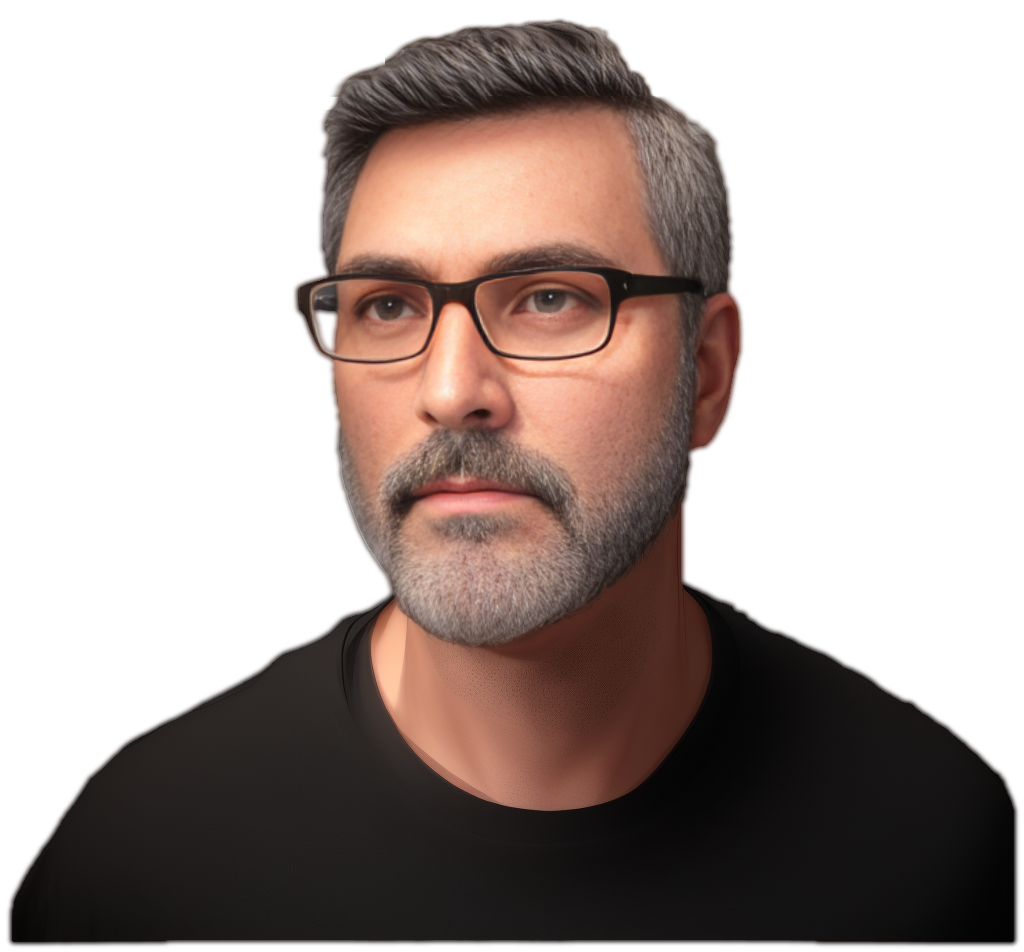
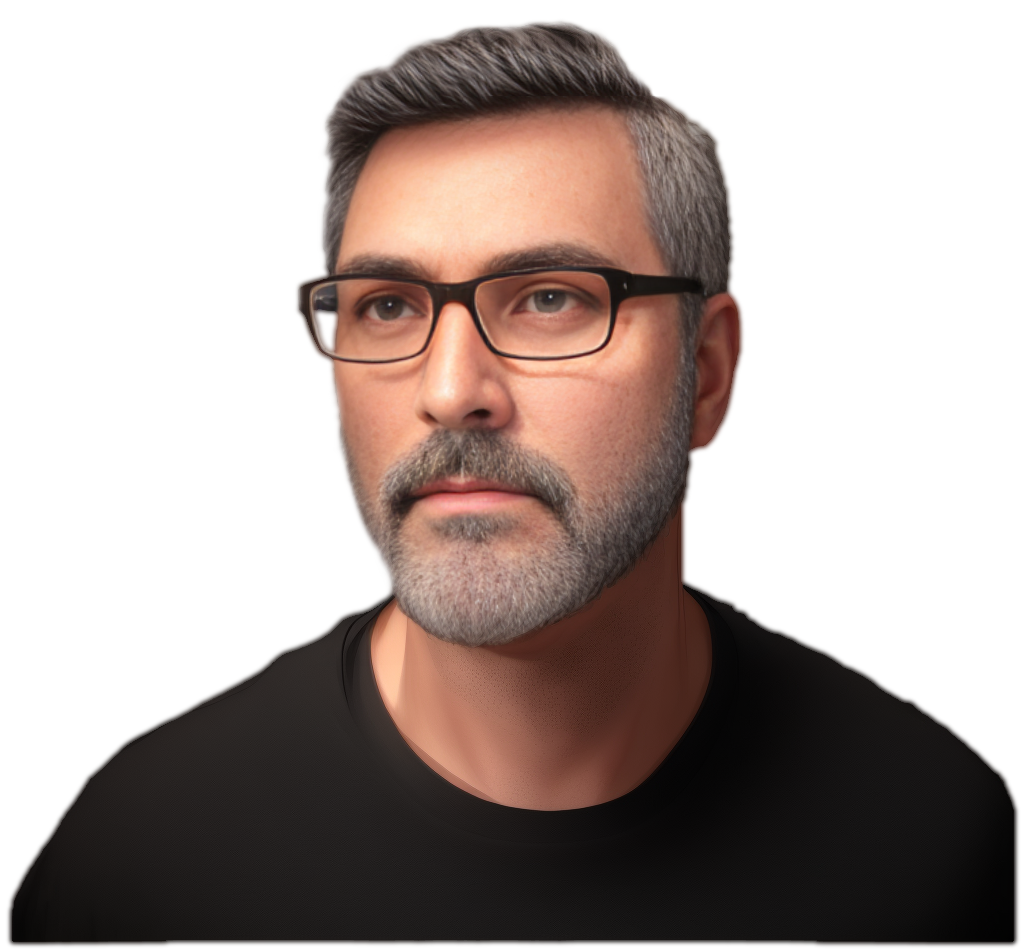
Edited Hero img; adjusted intro spacing

diff --git a/assets/styles/css/home.min.css b/assets/styles/css/home.min.css
@@ -1,1 +1,1 @@
-.hero{padding-top:3.5em !important;margin-bottom:0;padding-bottom:3.5em;width:100%;align-items:center;background:#24437b;background:radial-gradient(at bottom left, #24437b 0%, #0a1323 88%);color:#cdcdcd}@media(min-width: 768px){.hero{margin-bottom:-12em}}.hero>.content{flex-wrap:wrap-reverse}@container (min-width: 768px){.hero>.content{flex-wrap:nowrap}}.hero-copy{max-width:66ch;width:100%;display:flex;gap:.75em;justify-content:center;flex-direction:column;padding:0 4vw;align-items:center;text-align:center}@container (min-width: 768px){.hero-copy{margin-top:5em !important;margin-right:-12em;font-size:1.25em;align-items:flex-start;text-align:left;padding:0}}.hero-copy .page-title{line-height:1.25;text-transform:capitalize;font-weight:700;font-size:clamp(.95em,2vw,1.33em)}.hero-copy .Sub-title{font-size:2.85em;text-transform:capitalize;line-height:1em;margin-top:-0.25em}@container (min-width: 768px){.hero-copy .Sub-title{font-size:clamp(2.25em,4.8vw,3.2em)}}.hero-copy p{max-width:47ch;line-height:1.35}@container (min-width: 1080px){.hero-copy p{max-width:66ch}}.hero-copy .cta{width:-webkit-fit-content;width:-moz-fit-content;width:fit-content;padding:.382em .75em;margin:1em 0;background:var(--clr-header-cta);border:.125em solid var(--clr-header-cta);color:var(--clr-header-bg);font-weight:bold;border-radius:.25em;box-shadow:0px 2px 9px 0px rgba(89,89,89,.3607843137)}.hero-copy .cta:hover{background:rgba(0,0,0,0);color:var(--clr-header-cta);border:.125em solid var(--clr-header-cta)}.hero-copy .cta.animated{background:rgba(0,0,0,0)}.hero-copy .cta.animated:after{transform:scaleX(1);visibility:visible}.hero-copy .cta.animated span{transition:all 1s}.hero-copy .cta.animated:hover{color:var(--clr-header-cta);transition:all .12s}.hero-copy .cta.animated:hover:after{transform:scaleX(0)}.hero-image{margin:4vh auto;display:flex;justify-content:center;align-items:center;width:100vw;min-width:14em;max-width:38em;aspect-ratio:1/1;overflow:hidden}@container (min-width: 768px){.hero-image{margin-right:-6em !important;width:42vw}}.hero-image{position:relative;-webkit-mask-image:radial-gradient(circle, black 40%, rgba(0, 0, 0, 0) 50%);-webkit-mask-repeat:no-repeat;-webkit-mask-size:100% 180%;-webkit-mask-position:0 55%}.hero-image img.filter-effects{position:absolute;filter:blur(2em) brightness(0);z-index:-1}form{display:block;flex-direction:column;background:var(--clr-form-bg);color:var(--clr-form-ft)}@media(min-width: 768px){form{display:flex}}form label span{display:inline-block;transform:translate(0.5em, 0.75em);background:var(--clr-form-bg);padding:0 .5em}input,textarea,button{width:100%;padding:1em;margin-bottom:1em}input,textarea{border:1px solid var(--clr-input-br);background:var(--clr-input-bg);color:var(--clr-input-ft)}button:hover{cursor:pointer}.project-cards{display:flex;flex-direction:column;gap:1.618em}@media(min-width: 768px){.project-cards{display:grid;grid-template-columns:repeat(4, 1fr)}}.project-card{display:flex;flex-direction:column;background:var(--clr-card-bg);padding:1em;flex:1 1 100%;border:2px solid var(--clr-card-br);border-radius:.35em;box-shadow:0px 2px 9px 0px rgba(89,89,89,.3607843137);overflow:hidden}.project-card picture{border-radius:.25em;aspect-ratio:4/3}.project-card .copy{padding:.5em 0 0}.project-card .copy .fakeIcon{background:#000;color:#fff;display:inline-flex;align-items:center;justify-content:center;font-size:.6em;padding:0 .5em;border:.25em solid #000;border-radius:.5em;margin:.125em 0}@media(min-width: 768px){.project-card{flex:1 1 23.2%}}.article-cards{display:flex;flex-wrap:wrap;gap:1.618em;width:100%;font-size:.9em;line-height:1.2}.article-card{display:flex;flex-direction:column;background:var(--clr-card-bg);flex:1 1 100%;border:2px solid var(--clr-card-br);border-radius:.35em;box-shadow:0px 2px 9px 0px rgba(89,89,89,.3607843137);overflow:hidden}.article-card article{height:100%;position:relative}.article-card picture{aspect-ratio:6/4}.article-card .copy{padding:.75em}.article-card .copy .leanIn{padding-bottom:3em}.article-card .readMore{position:absolute;bottom:1em;left:1em;letter-spacing:.1em;font-size:.85em;padding:0 .5em;line-height:2em;font-weight:bold;height:2em;border:1px solid #5c626d;background-color:var(--clr-tag-bg);color:#5c626d;border-radius:.25em;text-decoration:none;margin:.5em .5em .5em 0}.article-card .readMore:hover{border:1px solid var(--clr-tag-br-hover, black);background-color:var(--clr-tag-bg-hover, black);color:var(--clr-tag-ft-hover, black)}@media(min-width: 768px){.article-card{flex:1 1 23.2%}}body{background:var(--clr-body-bg);color:var(--clr-body-ft)}section.hero{container-type:inline-size}section.intro{min-height:24em}@media(min-width: 768px){section.intro{margin-top:-5em}}section.intro .solution-list{display:flex;gap:2em;padding-top:1.618em !important;flex-wrap:wrap}@media(min-width: 768px){section.intro .solution-list{justify-content:space-around;gap:5vh}}section.intro .solution-list .solution-card{flex:1 1 100%;display:flex;flex-direction:column;justify-content:start;align-items:center;text-align:center;background:var(--clr-card-bg);padding:.5em 1em;border:2px solid var(--clr-card-br);border-radius:.25em;box-shadow:0px 2px 9px 0px rgba(89,89,89,.3607843137);background:radial-gradient(at top left, #ffffff 20%, var(--clr-accent-100) 200%);border:6px solid #e8edf7}@media(min-width: 768px){section.intro .solution-list .solution-card{align-items:start;text-align:left;z-index:1;flex:0 1 28%;max-width:20em}}section.intro .solution-list .solution-card>.icon{font-size:3em;padding:.125em;margin:.125em 0 .5em;color:#fff;background:var(--clr-primary-400);border-radius:.125em}.featured-articles .content,.projects .content,.about .content,.knowledge .content{align-items:stretch;justify-content:start}.featured-articles .list-link,.projects .list-link{align-self:end}.about .aboutme,.knowledge .skill-list{padding:1.618em}.about{flex:1 0 62ch}.knowledge .skill-list{display:flex;flex-wrap:wrap;gap:1em;align-items:start}.knowledge .skill-list dl{display:flex;flex-wrap:wrap;gap:0 1em;flex:48%}.knowledge .skill-list dl dt{flex:0 0 100%;font-weight:600}.knowledge .skill-list dl dd{font-size:.9em;line-height:1.2}.about-knowledge>.content>.flex{flex-direction:column;align-items:center;gap:4em}@media(min-width: 1089px){.about-knowledge>.content>.flex{flex-direction:row;align-items:stretch}}.contact-services>.content>.flex{flex-direction:column;align-items:center;gap:4em}@media(min-width: 1089px){.contact-services>.content>.flex{flex-direction:row;align-items:stretch}}.contact-services>.content>.flex .services{display:flex;flex-direction:column}.contact-services>.content>.flex .services .service-list{display:flex;gap:1.618em;flex-direction:column;padding-top:1.618em}.contact-services>.content>.flex .services .service-list li{background:var(--clr-card-bg);padding:1em 1.618em;border:2px solid var(--clr-card-br);border-radius:.25em;box-shadow:0px 2px 9px 0px rgba(89,89,89,.3607843137)}@media(min-width: 768px){.contact-services>.content>.flex .contact{flex:1 0 42%;display:flex;flex-direction:column}}.contact-services>.content>.flex .contact form{margin-top:1.618em;flex:1 1 auto;padding:.5em 1.5em;border:2px solid var(--clr-card-br);border-radius:.25em;box-shadow:0px 2px 9px 0px rgba(89,89,89,.3607843137)}.contact-services>.content>.flex .contact form label[for=message]{flex:1 1 auto;display:flex;flex-direction:column;align-items:start}.contact-services>.content>.flex .contact form label[for=message] textarea{flex:1 1 auto}.contact-services>.content>.flex .contact form button{width:100%;padding:.382em 1em;background:var(--clr-accent-bg);color:#fff;border:2px solid var(--clr-accent-bg);border-radius:.25em;box-shadow:0px 2px 9px 0px rgba(89,89,89,.3607843137);align-self:end;justify-self:end}@media(min-width: 768px){.contact-services>.content>.flex .contact form button{width:-webkit-fit-content;width:-moz-fit-content;width:fit-content}}
+.hero{padding-top:3.5em !important;margin-bottom:0;padding-bottom:3.5em;width:100%;align-items:center;background:#24437b;background:radial-gradient(at bottom left, #24437b 0%, #0a1323 88%);color:#cdcdcd}@media(min-width: 768px){.hero{padding-top:5em !important;margin-bottom:-7em}}.hero>.content{flex-wrap:wrap-reverse}@container (min-width: 768px){.hero>.content{flex-wrap:nowrap}}.hero-copy{max-width:66ch;width:100%;display:flex;gap:.75em;justify-content:center;flex-direction:column;padding:0 4vw;align-items:center;text-align:center}@container (min-width: 768px){.hero-copy{margin-top:5em !important;margin-right:-12em;font-size:1.25em;align-items:flex-start;text-align:left;padding:0}}.hero-copy .page-title{line-height:1.25;text-transform:capitalize;font-weight:700;font-size:clamp(.95em,2vw,1.33em)}.hero-copy .Sub-title{font-size:2.85em;text-transform:capitalize;line-height:1em;margin-top:-0.25em}@container (min-width: 768px){.hero-copy .Sub-title{font-size:clamp(2.25em,4.8vw,3.2em)}}.hero-copy p{max-width:47ch;line-height:1.35}@container (min-width: 1080px){.hero-copy p{max-width:66ch}}.hero-copy .cta{width:-webkit-fit-content;width:-moz-fit-content;width:fit-content;padding:.382em .75em;margin:1em 0;background:var(--clr-header-cta);border:.125em solid var(--clr-header-cta);color:var(--clr-header-bg);font-weight:bold;border-radius:.25em;box-shadow:0px 2px 9px 0px rgba(89,89,89,.3607843137)}.hero-copy .cta:hover{background:rgba(0,0,0,0);color:var(--clr-header-cta);border:.125em solid var(--clr-header-cta)}.hero-copy .cta.animated{background:rgba(0,0,0,0)}.hero-copy .cta.animated:after{transform:scaleX(1);visibility:visible}.hero-copy .cta.animated span{transition:all 1s}.hero-copy .cta.animated:hover{color:var(--clr-header-cta);transition:all .12s}.hero-copy .cta.animated:hover:after{transform:scaleX(0)}.hero-image{margin:4vh auto;display:flex;justify-content:center;align-items:center;width:100vw;min-width:14em;max-width:38em;aspect-ratio:1/1;overflow:hidden}@container (min-width: 768px){.hero-image{margin-right:-6em !important;width:42vw}}.hero-image{position:relative;-webkit-mask-image:radial-gradient(circle, black 40%, rgba(0, 0, 0, 0) 50%);-webkit-mask-repeat:no-repeat;-webkit-mask-size:100% 180%;-webkit-mask-position:0 55%}.hero-image img.filter-effects{position:absolute;filter:blur(2em) brightness(0);z-index:-1}form{display:block;flex-direction:column;background:var(--clr-form-bg);color:var(--clr-form-ft)}@media(min-width: 768px){form{display:flex}}form label span{display:inline-block;transform:translate(0.5em, 0.75em);background:var(--clr-form-bg);padding:0 .5em}input,textarea,button{width:100%;padding:1em;margin-bottom:1em}input,textarea{border:1px solid var(--clr-input-br);background:var(--clr-input-bg);color:var(--clr-input-ft)}button:hover{cursor:pointer}.project-cards{display:flex;flex-direction:column;gap:1.618em}@media(min-width: 768px){.project-cards{display:grid;grid-template-columns:repeat(4, 1fr)}}.project-card{display:flex;flex-direction:column;background:var(--clr-card-bg);padding:1em;flex:1 1 100%;border:2px solid var(--clr-card-br);border-radius:.35em;box-shadow:0px 2px 9px 0px rgba(89,89,89,.3607843137);overflow:hidden}.project-card picture{border-radius:.25em;aspect-ratio:4/3}.project-card .copy{padding:.5em 0 0}.project-card .copy .fakeIcon{background:#000;color:#fff;display:inline-flex;align-items:center;justify-content:center;font-size:.6em;padding:0 .5em;border:.25em solid #000;border-radius:.5em;margin:.125em 0}@media(min-width: 768px){.project-card{flex:1 1 23.2%}}.article-cards{display:flex;flex-wrap:wrap;gap:1.618em;width:100%;font-size:.9em;line-height:1.2}.article-card{display:flex;flex-direction:column;background:var(--clr-card-bg);flex:1 1 100%;border:2px solid var(--clr-card-br);border-radius:.35em;box-shadow:0px 2px 9px 0px rgba(89,89,89,.3607843137);overflow:hidden}.article-card article{height:100%;position:relative}.article-card picture{aspect-ratio:6/4}.article-card .copy{padding:.75em}.article-card .copy .leanIn{padding-bottom:3em}.article-card .readMore{position:absolute;bottom:1em;left:1em;letter-spacing:.1em;font-size:.85em;padding:0 .5em;line-height:2em;font-weight:bold;height:2em;border:1px solid #5c626d;background-color:var(--clr-tag-bg);color:#5c626d;border-radius:.25em;text-decoration:none;margin:.5em .5em .5em 0}.article-card .readMore:hover{border:1px solid var(--clr-tag-br-hover, black);background-color:var(--clr-tag-bg-hover, black);color:var(--clr-tag-ft-hover, black)}@media(min-width: 768px){.article-card{flex:1 1 23.2%}}body{background:var(--clr-body-bg);color:var(--clr-body-ft)}section.hero{container-type:inline-size}section.intro{min-height:24em}@media(min-width: 768px){section.intro{margin-top:-5em;margin-bottom:2em}}section.intro .solution-list{display:flex;gap:2em;padding-top:1.618em !important;flex-wrap:wrap}@media(min-width: 768px){section.intro .solution-list{justify-content:space-around;gap:5vh}}section.intro .solution-list .solution-card{flex:1 1 100%;display:flex;flex-direction:column;justify-content:start;align-items:center;text-align:center;background:var(--clr-card-bg);padding:.5em 1em;border:2px solid var(--clr-card-br);border-radius:.25em;box-shadow:0px 2px 9px 0px rgba(89,89,89,.3607843137);background:radial-gradient(at top left, #ffffff 20%, var(--clr-accent-100) 200%);border:6px solid #e8edf7}@media(min-width: 768px){section.intro .solution-list .solution-card{align-items:start;text-align:left;z-index:1;flex:0 1 28%;max-width:20em}}section.intro .solution-list .solution-card>.icon{font-size:3em;padding:.125em;margin:.125em 0 .5em;color:#fff;background:var(--clr-primary-400);border-radius:.125em}.featured-articles .content,.projects .content,.about .content,.knowledge .content{align-items:stretch;justify-content:start}.featured-articles .list-link,.projects .list-link{align-self:end}.about .aboutme,.knowledge .skill-list{padding:1.618em}.about{flex:1 0 62ch}.knowledge .skill-list{display:flex;flex-wrap:wrap;gap:1em;align-items:start}.knowledge .skill-list dl{display:flex;flex-wrap:wrap;gap:0 1em;flex:48%}.knowledge .skill-list dl dt{flex:0 0 100%;font-weight:600}.knowledge .skill-list dl dd{font-size:.9em;line-height:1.2}.about-knowledge>.content>.flex{flex-direction:column;align-items:center;gap:4em}@media(min-width: 1089px){.about-knowledge>.content>.flex{flex-direction:row;align-items:stretch}}.contact-services>.content>.flex{flex-direction:column;align-items:center;gap:4em}@media(min-width: 1089px){.contact-services>.content>.flex{flex-direction:row;align-items:stretch}}.contact-services>.content>.flex .services{display:flex;flex-direction:column}.contact-services>.content>.flex .services .service-list{display:flex;gap:1.618em;flex-direction:column;padding-top:1.618em}.contact-services>.content>.flex .services .service-list li{background:var(--clr-card-bg);padding:1em 1.618em;border:2px solid var(--clr-card-br);border-radius:.25em;box-shadow:0px 2px 9px 0px rgba(89,89,89,.3607843137)}@media(min-width: 768px){.contact-services>.content>.flex .contact{flex:1 0 42%;display:flex;flex-direction:column}}.contact-services>.content>.flex .contact form{margin-top:1.618em;flex:1 1 auto;padding:.5em 1.5em;border:2px solid var(--clr-card-br);border-radius:.25em;box-shadow:0px 2px 9px 0px rgba(89,89,89,.3607843137)}.contact-services>.content>.flex .contact form label[for=message]{flex:1 1 auto;display:flex;flex-direction:column;align-items:start}.contact-services>.content>.flex .contact form label[for=message] textarea{flex:1 1 auto}.contact-services>.content>.flex .contact form button{width:100%;padding:.382em 1em;background:var(--clr-accent-bg);color:#fff;border:2px solid var(--clr-accent-bg);border-radius:.25em;box-shadow:0px 2px 9px 0px rgba(89,89,89,.3607843137);align-self:end;justify-self:end}@media(min-width: 768px){.contact-services>.content>.flex .contact form button{width:-webkit-fit-content;width:-moz-fit-content;width:fit-content}}

diff --git a/src/_includes/assets/sass/components/_home-hero.scss b/src/_includes/assets/sass/components/_home-hero.scss
@@ -6,7 +6,8 @@
   width: 100%;
   align-items: center;
   @include media-desktop {
-    margin-bottom: -12em;
+    padding-top: 5em !important;
+    margin-bottom: -7em;
   }
   & > .content{
     flex-wrap: wrap-reverse;

diff --git a/src/_includes/assets/sass/pages/home.scss b/src/_includes/assets/sass/pages/home.scss
@@ -18,6 +18,7 @@ section.intro {
   min-height: 24em;
   @include media-desktop {
     margin-top: -5em;
+    margin-bottom: 2em;
   }
   .solution-list{
     display: flex;
